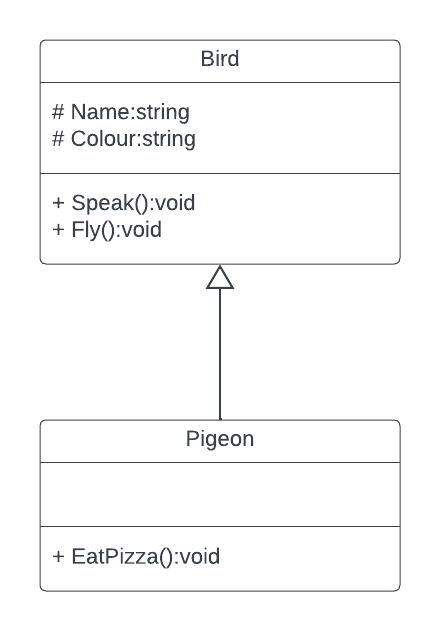
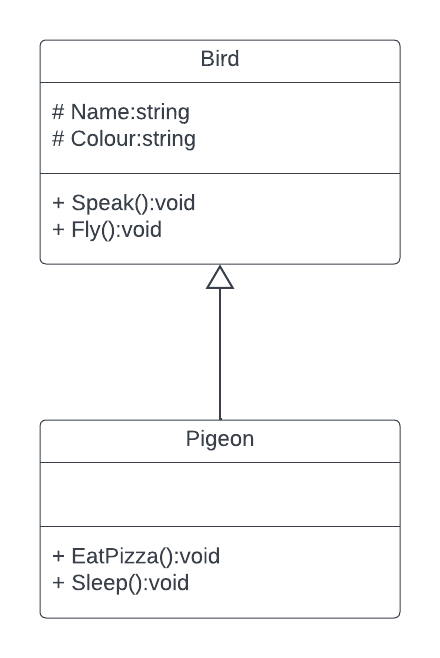
Add sleep method

diff --git a/Pigeon.cs b/Pigeon.cs
@@ -18,5 +18,10 @@ namespace introduction_to_oop_project
         {
             Console.WriteLine("Delicious pizza!");
         }
+
+        public void Sleep()
+        {
+            Console.WriteLine("I'm a sleeping pigeon");
+        }
     }
 }

diff --git a/Program.cs b/Program.cs
@@ -19,6 +19,7 @@ namespace introduction_to_oop_project
             pippa.Speak();
             pippa.Fly();
             pippa.EatPizza();
+            pippa.Sleep();
 
         }
     }
